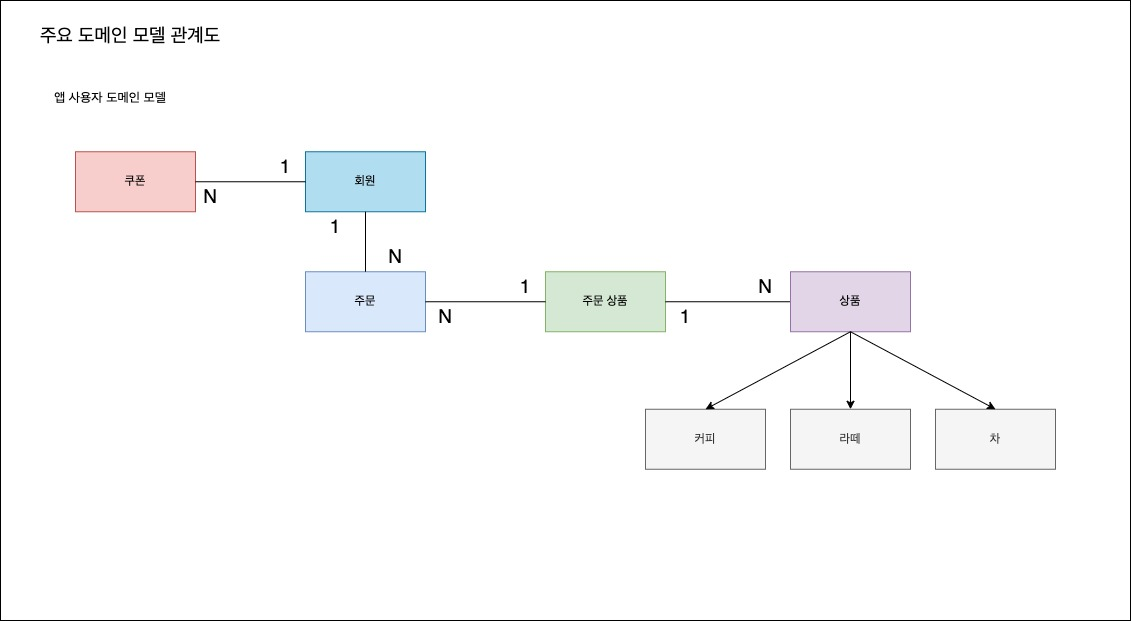
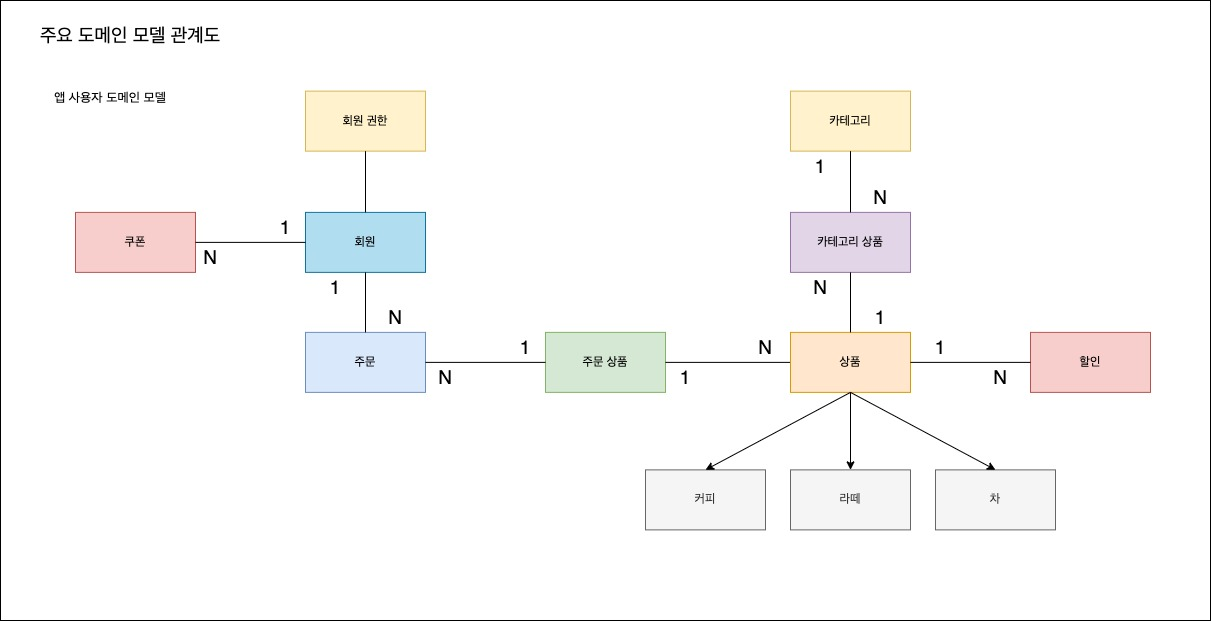
Docs: "도메인 모델 수정"
도메인 모델 수정
- 카테고리, 카테고리 상품 이미지 추가

Resolves: N/A
Ref: N/A
Related to: N/A

diff --git a/backend/ModuCafe/src/main/java/com/example/moducafe/item/entity/Category.java b/backend/ModuCafe/src/main/java/com/example/moducafe/item/entity/Category.java
@@ -1,0 +1,2 @@
+package com.example.moducafe.item.entity;public class Category {
+}
